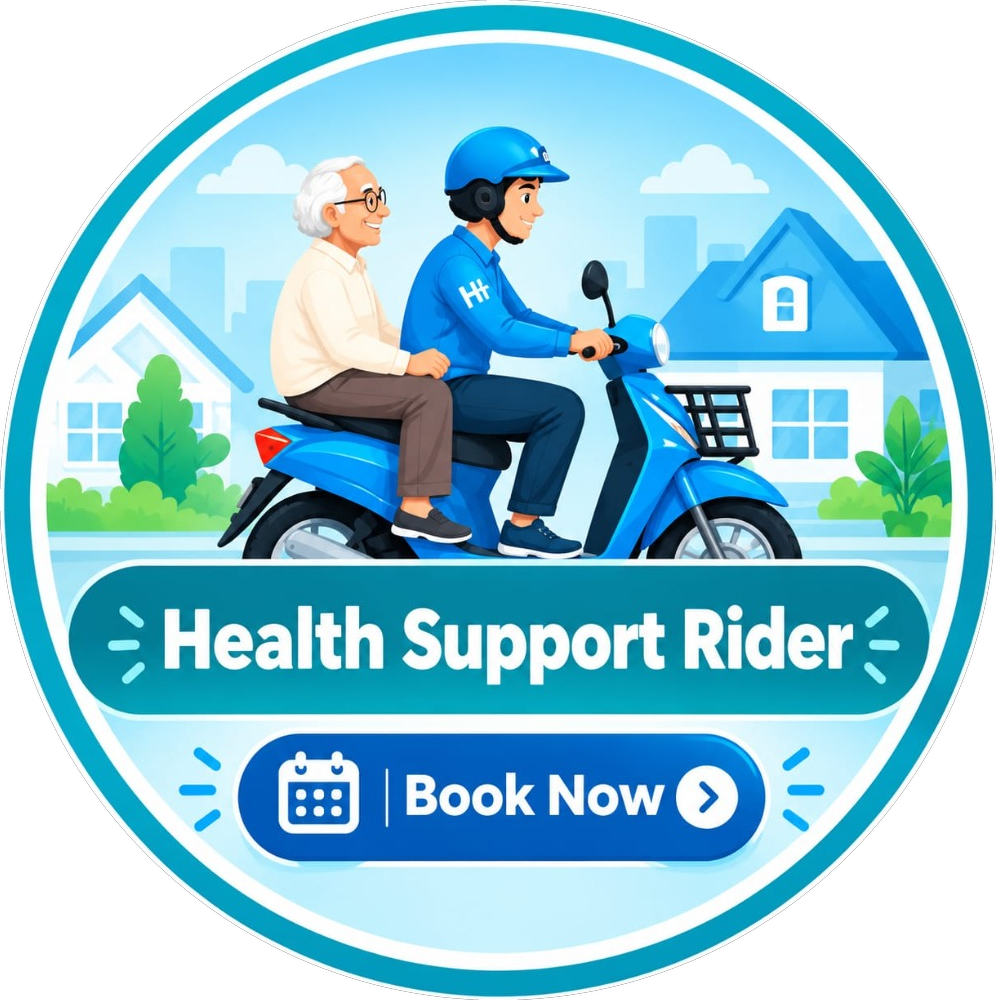
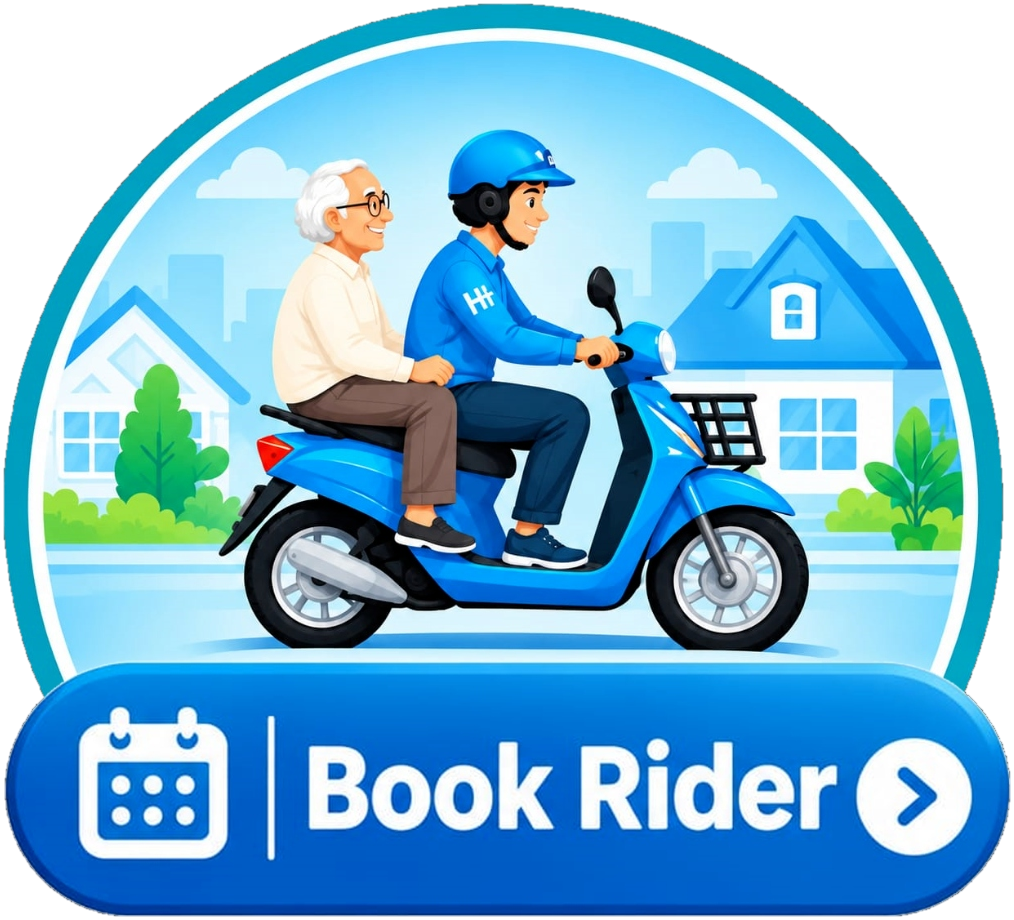
feat(ui): Replace Book Now with Sign Up in nav, update Health Support Rider badge and popup modal

diff --git a/templates/index.html b/templates/index.html
@@ -69,7 +69,7 @@
                     <i class="fa-solid fa-magnifying-glass"></i>
                 </button>
                 <button class="btn-outline-pill login-btn" id="loginModalBtn" onclick="openLoginModal()">Login</button>
-                <button class="btn-solid-teal book-now-btn" id="bookNowNavBtn" onclick="openBookingModal()">Book Now</button>
+                <button class="btn-outline-pill signup-btn" id="signupModalBtn" onclick="openSignupModal()">Sign Up</button>
                 
                 <!-- Mobile Hamburger Toggle -->
                 <button class="mobile-toggle-btn" id="mobileMenuToggle" aria-label="Toggle navigation menu">
@@ -107,7 +107,7 @@
             
             <div class="mobile-drawer-footer">
                 <button class="btn-outline-pill w-100 mb-2" onclick="openLoginModal(); closeMobileDrawer();">Login</button>
-                <button class="btn-solid-teal w-100" onclick="openBookingModal(); closeMobileDrawer();">Book Consultation</button>
+                <button class="btn-outline-pill w-100" onclick="openSignupModal(); closeMobileDrawer();">Sign Up</button>
             </div>
         </div>
     </div>
@@ -157,9 +157,9 @@
                             <span class="pill-segment">All in One Place</span>
                         </div>
 
-                        <!-- Health Support Rider Badge & Book Now (Desktop / Laptop) -->
-                        <div class="hero-rider-badge-wrap desktop-only" onclick="openBookingModal('Health Support Rider')" title="Book Health Support Rider">
-                            <img src="{{ url_for('static', filename='images/health_support_rider_badge.png') }}" alt="Health Support Rider - Book Now" class="hero-rider-badge-img">
+                        <!-- Health Support Rider Badge & Book Rider (Desktop / Laptop) -->
+                        <div class="hero-rider-badge-wrap desktop-only" onclick="openRiderModal()" title="Health Support Rider - Click to view details">
+                            <img src="{{ url_for('static', filename='images/health_support_rider_badge.png') }}" alt="Health Support Rider - Book Rider" class="hero-rider-badge-img">
                         </div>
 
                         <!-- Quick Trust Pill Row for Mobile -->
@@ -203,7 +203,7 @@
             </div>
 
             <!-- Continuous Slow Looping Healthcare Bike Delivery (Desktop/Laptop) -->
-            <div class="hero-bike-loop-track desktop-only" onclick="openBookingModal('Health Support Rider')" title="Nhealth Healthcare at Home - Click to Book Ride">
+            <div class="hero-bike-loop-track desktop-only" onclick="openRiderModal()" title="Health Support Rider - Click to view details">
                 <img src="{{ url_for('static', filename='images/nhealth_bike.png') }}" alt="Nhealth Healthcare Bike Delivery" class="hero-bike-loop-img">
             </div>
         </section>
@@ -958,7 +958,7 @@
 
             <!-- Health Support Rider Circular Feature Badge (Positioned in Bottom-Left Free Space) -->
             <div class="m-hero-rider-badge" onclick="openRiderModal()" title="Health Support Rider - Tap to view details">
-                <img src="{{ url_for('static', filename='images/health_support_rider_badge_round.png') }}" alt="Health Support Rider" class="m-rider-img" loading="lazy">
+                <img src="{{ url_for('static', filename='images/health_support_rider_badge.png') }}" alt="Health Support Rider" class="m-rider-img" loading="lazy">
             </div>
 
             <!-- Health Support Rider Continuous Traveling Bike in Slow Motion -->
@@ -1404,11 +1404,11 @@
     </div>
 
 
-    <!-- 3. LOGIN MODAL -->
-    <div class="custom-modal-backdrop" id="loginModalBackdrop">
+    <!-- 3. LOGIN & SIGN UP MODAL -->
+    <div class="custom-modal-backdrop" id="loginModalBackdrop" data-mode="login">
         <div class="custom-modal-card login-modal-card">
             <div class="modal-card-header">
-                <h3 class="modal-title">Login to Nhealth</h3>
+                <h3 class="modal-title" id="authModalTitle">Login to Nhealth</h3>
                 <button class="modal-close-btn" onclick="closeLoginModal()">&times;</button>
             </div>
             <div class="modal-form-body">
@@ -1419,13 +1419,13 @@
 
                 <div id="otpLoginForm">
                     <div class="form-group mt-3">
-                        <label>Enter 10-digit Mobile Number</label>
+                        <label id="phoneInputLabel">Enter 10-digit Mobile Number</label>
                         <div class="input-with-prefix">
                             <span class="phone-prefix">+91</span>
                             <input type="tel" id="loginPhoneInput" placeholder="9876543210" maxlength="10" class="form-control prefix-input">
                         </div>
                     </div>
-                    <button class="btn-solid-teal w-100 mt-3" onclick="sendMockOtp()">Send OTP</button>
+                    <button class="btn-solid-teal w-100 mt-3" id="otpSubmitBtn" onclick="sendMockOtp()">Send OTP</button>
                 </div>
 
                 <div id="emailLoginForm" style="display: none;">
@@ -1438,6 +1438,11 @@
                         <input type="password" placeholder="••••••••" class="form-control">
                     </div>
                     <button class="btn-solid-teal w-100 mt-3" onclick="handlePartnerLogin()">Sign In</button>
+                </div>
+
+                <div class="auth-switch-prompt" id="authSwitchPrompt" style="margin-top: 1rem; text-align: center; font-size: 0.85rem; color: #64748b;">
+                    <span id="authSwitchText">Don't have an account?</span> 
+                    <a href="javascript:void(0)" id="authSwitchLink" onclick="toggleAuthMode()" style="color: #0baaa2; font-weight: 600; text-decoration: underline;">Sign Up</a>
                 </div>
 
                 <p class="login-terms">By continuing, you agree to Nhealth's Terms of Service &amp; Privacy Policy.</p>
@@ -1551,8 +1556,8 @@
     <div id="riderModal" class="rider-modal-backdrop" onclick="closeRiderModal(event)">
         <div class="rider-modal-dialog" onclick="event.stopPropagation()">
             <div class="rider-modal-img-wrap" onclick="closeRiderModal(); openBookingModal('Health Support Rider');" style="cursor: pointer;" title="Tap to Book Health Support Rider">
-                <button type="button" class="rider-modal-close" onclick="closeRiderModal(event)" aria-label="Close modal">&times;</button>
-                <img src="{{ url_for('static', filename='images/health_support_rider_badge_round.png') }}" alt="Health Support Rider" class="rider-modal-img">
+                <button type="button" class="rider-modal-close" onclick="event.stopPropagation(); closeRiderModal(event);" aria-label="Close modal">&times;</button>
+                <img src="{{ url_for('static', filename='images/health_support_rider_badge.png') }}" alt="Health Support Rider" class="rider-modal-img">
             </div>
 
             <!-- Health Support Rider Info Text Card -->

diff --git a/static/css/style.css b/static/css/style.css
@@ -896,15 +896,15 @@ img, svg {
 }
 
 .hero-rider-badge-img {
-    width: 145px;
+    width: 152px;
     height: auto;
     display: block;
-    border-radius: 50%;
+    object-fit: contain;
 }
 
 @media (min-width: 1400px) {
     .hero-rider-badge-img {
-        width: 165px;
+        width: 172px;
     }
 }
 
@@ -4386,7 +4386,7 @@ img, svg {
 .rider-modal-dialog {
     background: transparent;
     border-radius: 0;
-    max-width: 320px;
+    max-width: 330px;
     width: 100%;
     position: relative;
     overflow: visible;
@@ -4407,8 +4407,8 @@ img, svg {
 
 .rider-modal-img-wrap {
     position: relative;
-    width: 280px;
-    height: 280px;
+    width: 290px;
+    height: auto;
     display: flex;
     align-items: center;
     justify-content: center;
@@ -4416,15 +4416,15 @@ img, svg {
 
 .rider-modal-close {
     position: absolute;
-    top: 6px;
+    top: 2px;
     right: 6px;
-    width: 34px;
-    height: 34px;
+    width: 36px;
+    height: 36px;
     border-radius: 50%;
     background: #ffffff;
-    box-shadow: 0 4px 12px rgba(0, 0, 0, 0.28);
+    box-shadow: 0 4px 14px rgba(0, 0, 0, 0.32);
     border: none;
-    font-size: 1.35rem;
+    font-size: 1.4rem;
     line-height: 1;
     cursor: pointer;
     display: flex;
@@ -4435,38 +4435,42 @@ img, svg {
     transition: transform 0.2s ease, background 0.2s ease;
 }
 
+.rider-modal-close:hover {
+    background: #f1f5f9;
+    transform: scale(1.08);
+}
+
 .rider-modal-close:active {
-    transform: scale(0.9);
+    transform: scale(0.92);
 }
 
 .rider-modal-img {
     width: 100%;
-    height: 100%;
-    object-fit: cover;
-    border-radius: 50%;
+    height: auto;
+    object-fit: contain;
     display: block;
     filter: drop-shadow(0 14px 32px rgba(0, 0, 0, 0.45));
     box-shadow: none;
 }
 
 .rider-modal-info-card {
-    margin-top: 0.85rem;
-    background: rgba(255, 255, 255, 0.95);
+    margin-top: 0.95rem;
+    background: rgba(255, 255, 255, 0.96);
     backdrop-filter: blur(12px);
     -webkit-backdrop-filter: blur(12px);
-    border-radius: 16px;
-    padding: 0.7rem 0.95rem;
+    border-radius: 18px;
+    padding: 0.85rem 1.1rem;
     box-shadow: 0 8px 24px rgba(12, 35, 64, 0.22), 0 1px 3px rgba(0, 0, 0, 0.08);
     border: 1px solid rgba(255, 255, 255, 0.85);
     width: 100%;
-    max-width: 290px;
+    max-width: 305px;
     box-sizing: border-box;
 }
 
 .rider-modal-info-text {
     font-family: var(--font-brand);
-    font-size: 0.74rem;
-    line-height: 1.44;
+    font-size: 0.78rem;
+    line-height: 1.45;
     font-weight: 700;
     color: #0c2340;
     margin: 0;
@@ -4475,13 +4479,13 @@ img, svg {
 }
 
 .rider-modal-actions {
-    margin-top: 0.75rem;
+    margin-top: 0.85rem;
     display: flex;
     align-items: center;
     justify-content: center;
-    gap: 0.65rem;
+    gap: 0.75rem;
     width: 100%;
-    max-width: 290px;
+    max-width: 305px;
 }
 
 .rider-modal-btn {
@@ -4489,17 +4493,21 @@ img, svg {
     display: inline-flex;
     align-items: center;
     justify-content: center;
-    gap: 0.45rem;
-    padding: 0.72rem 1rem;
+    gap: 0.5rem;
+    padding: 0.75rem 1rem;
     border-radius: 9999px;
     font-family: var(--font-brand);
     font-weight: 700;
-    font-size: 0.88rem;
+    font-size: 0.92rem;
     text-decoration: none;
     border: none;
     cursor: pointer;
     transition: transform 0.2s ease, box-shadow 0.2s ease;
     white-space: nowrap;
+}
+
+.rider-modal-btn:hover {
+    transform: translateY(-2px);
 }
 
 .rider-modal-btn:active {
@@ -4512,9 +4520,17 @@ img, svg {
     box-shadow: 0 4px 14px rgba(0, 180, 167, 0.45);
 }
 
+.rider-btn-book:hover {
+    box-shadow: 0 6px 20px rgba(0, 180, 167, 0.6);
+}
+
 .rider-btn-wa {
     background: #25d366;
     color: #ffffff;
     box-shadow: 0 4px 14px rgba(37, 211, 102, 0.45);
+}
+
+.rider-btn-wa:hover {
+    box-shadow: 0 6px 20px rgba(37, 211, 102, 0.6);
 }
 

diff --git a/static/js/main.js b/static/js/main.js
@@ -459,12 +459,52 @@ function closeVideoModal() {
 /* ==========================================================================
    7. LOGIN & AUTH MODAL
    ========================================================================== */
+function setAuthMode(mode) {
+    const modal = document.getElementById('loginModalBackdrop');
+    if (!modal) return;
+    modal.dataset.mode = mode;
+
+    const title = document.getElementById('authModalTitle');
+    const otpBtn = document.getElementById('otpSubmitBtn');
+    const switchText = document.getElementById('authSwitchText');
+    const switchLink = document.getElementById('authSwitchLink');
+
+    if (mode === 'signup') {
+        if (title) title.textContent = 'Sign Up for Nhealth';
+        if (otpBtn) otpBtn.textContent = 'Register & Send OTP';
+        if (switchText) switchText.textContent = 'Already have an account?';
+        if (switchLink) switchLink.textContent = 'Login';
+    } else {
+        if (title) title.textContent = 'Login to Nhealth';
+        if (otpBtn) otpBtn.textContent = 'Send OTP';
+        if (switchText) switchText.textContent = "Don't have an account?";
+        if (switchLink) switchLink.textContent = 'Sign Up';
+    }
+}
+
 function openLoginModal() {
+    setAuthMode('login');
     const modal = document.getElementById('loginModalBackdrop');
     if (modal) {
         modal.classList.add('active');
         document.body.style.overflow = 'hidden';
     }
+}
+
+function openSignupModal() {
+    setAuthMode('signup');
+    const modal = document.getElementById('loginModalBackdrop');
+    if (modal) {
+        modal.classList.add('active');
+        document.body.style.overflow = 'hidden';
+    }
+}
+
+function toggleAuthMode() {
+    const modal = document.getElementById('loginModalBackdrop');
+    if (!modal) return;
+    const currentMode = modal.dataset.mode || 'login';
+    setAuthMode(currentMode === 'login' ? 'signup' : 'login');
 }
 
 function closeLoginModal() {
@@ -497,10 +537,17 @@ function sendMockOtp() {
         showToast("⚠ Please enter a valid 10-digit mobile number", "error");
         return;
     }
+    const modal = document.getElementById('loginModalBackdrop');
+    const isSignup = modal && modal.dataset.mode === 'signup';
+
     showToast(`📲 6-digit OTP sent to +91 ${phoneInput.value}`, "success");
     setTimeout(() => {
         closeLoginModal();
-        showToast("🎉 Welcome to Nhealth Healthcare Portal!", "success");
+        if (isSignup) {
+            showToast("🎉 Account created successfully! Welcome to Nhealth.", "success");
+        } else {
+            showToast("🎉 Welcome to Nhealth Healthcare Portal!", "success");
+        }
     }, 1500);
 }
 
